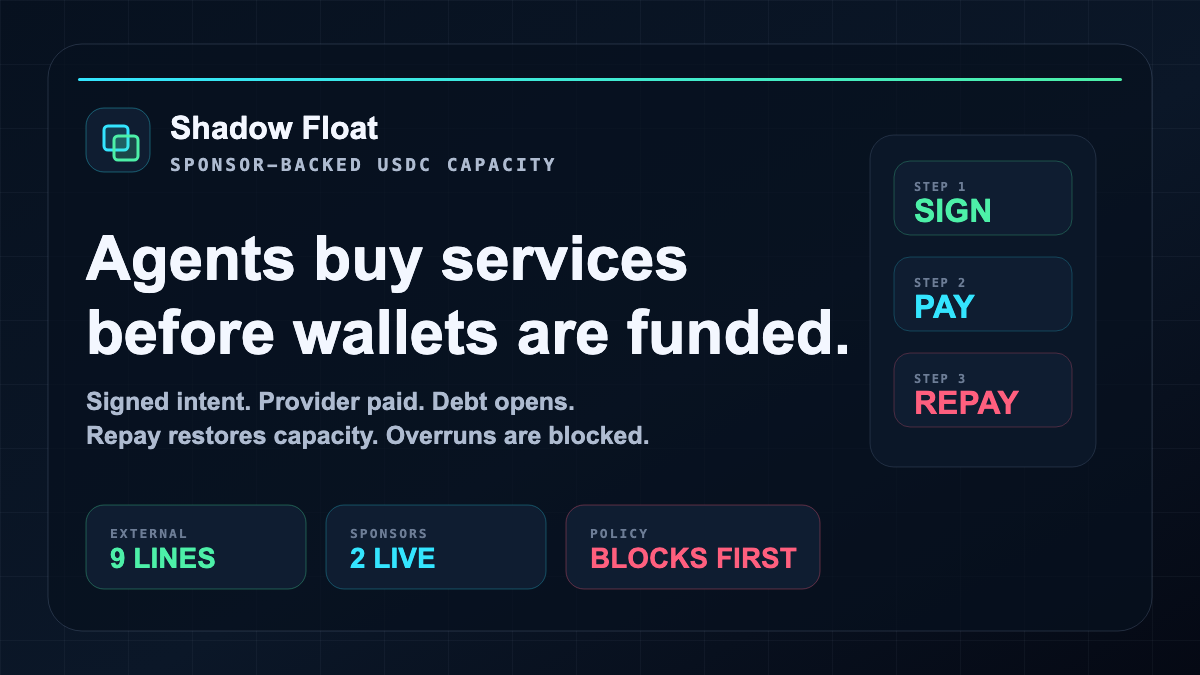
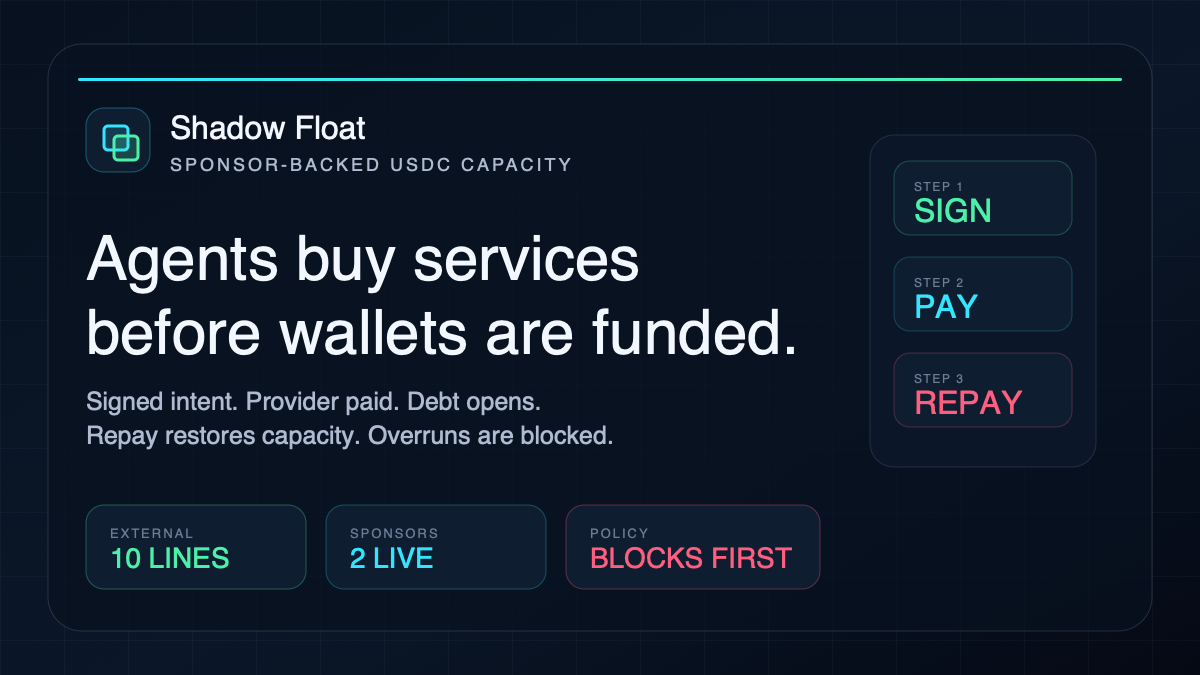
Refresh launch surface for final submission

diff --git a/docs/LEPTON_M1.md b/docs/LEPTON_M1.md
@@ -2,7 +2,7 @@
 
 Shadow's Lepton M1 surface is a protocol-facing mandate engine for Arc DeFi.
 
-It is intentionally separate from `MirrorRouter`. Copy-trading remains adapter one and proof of demand; Lepton M1 exposes the reusable primitive underneath it: a USDC mandate is checked before capital moves, every allow/block produces an onchain receipt, and the enforcing surface must be bonded.
+It is intentionally separate from `MirrorRouter`. The earlier mirrored-execution adapter remains historical proof of demand; Lepton M1 exposes the reusable primitive underneath it: a USDC mandate is checked before capital moves, every allow/block produces an onchain receipt, and the enforcing surface must be bonded.
 
 ## What Ships
 
@@ -12,7 +12,7 @@ It is intentionally separate from `MirrorRouter`. Copy-trading remains adapter o
 - `V4StyleArcAdapter`: an honestly labeled v4-style Arc adapter that is swap-only, checks a mandate before moving USDC to a liquidity sink, and exposes pool-key execution references for future PoolManager/hook integration.
 - `MorphoStyleVaultAdapter`: an honestly labeled Morpho-style deposit adapter that is deposit-only, checks the same mandate engine before moving USDC to a vault sink, and binds execution references to market-like fields.
 - `MandateVaultSink`: a tiny protocol-like vault destination that records receipt-linked USDC deposits after an adapter moves funds. Each protocol adapter should use its own sink.
-- `RiskPolicy.evaluateSnapshot`: pure policy evaluation support reused from the existing copy-trading router.
+- `RiskPolicy.evaluateSnapshot`: pure policy evaluation support reused from the existing mirrored-execution router.
 
 ## What This Proves
 

diff --git a/docs/ROADMAP.md b/docs/ROADMAP.md
@@ -49,4 +49,4 @@ Goal: keep the older copy-capital receipt system useful without letting it dilut
 
 - Preserve the 2,893-receipt copy-capital archive as proof that Shadow's receipt-and-policy primitive predates Float.
 - Reuse the receipt/indexing discipline where it helps Float or Treasury/M1.
-- Avoid making copy trading the lead product in Float submissions or demos.
+- Avoid making mirrored execution the lead product in Float submissions or demos.